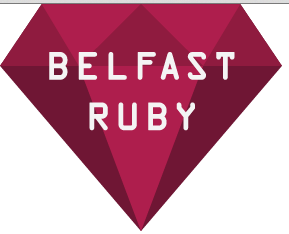
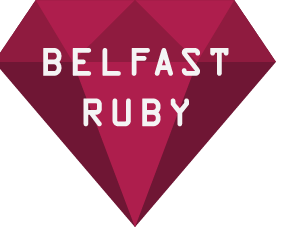
center the image

diff --git a/app/layouts/home_screen_layout.rb b/app/layouts/home_screen_layout.rb
@@ -10,10 +10,16 @@ class HomeScreenLayout < MotionKit::Layout
   end
 
   def logo_style
-    top 0
-    left 0
-    width '289'
-    height '234'
+    # top 0
+    # left 0
     image UIImage.imageNamed('belfast-ruby')
+
+    constraints do
+      width.equals(289)
+      height.equals(234)
+
+      center.equals(:superview)
+      # top_left.is ['50% - 114', '50% - 117']
+    end
   end
 end
